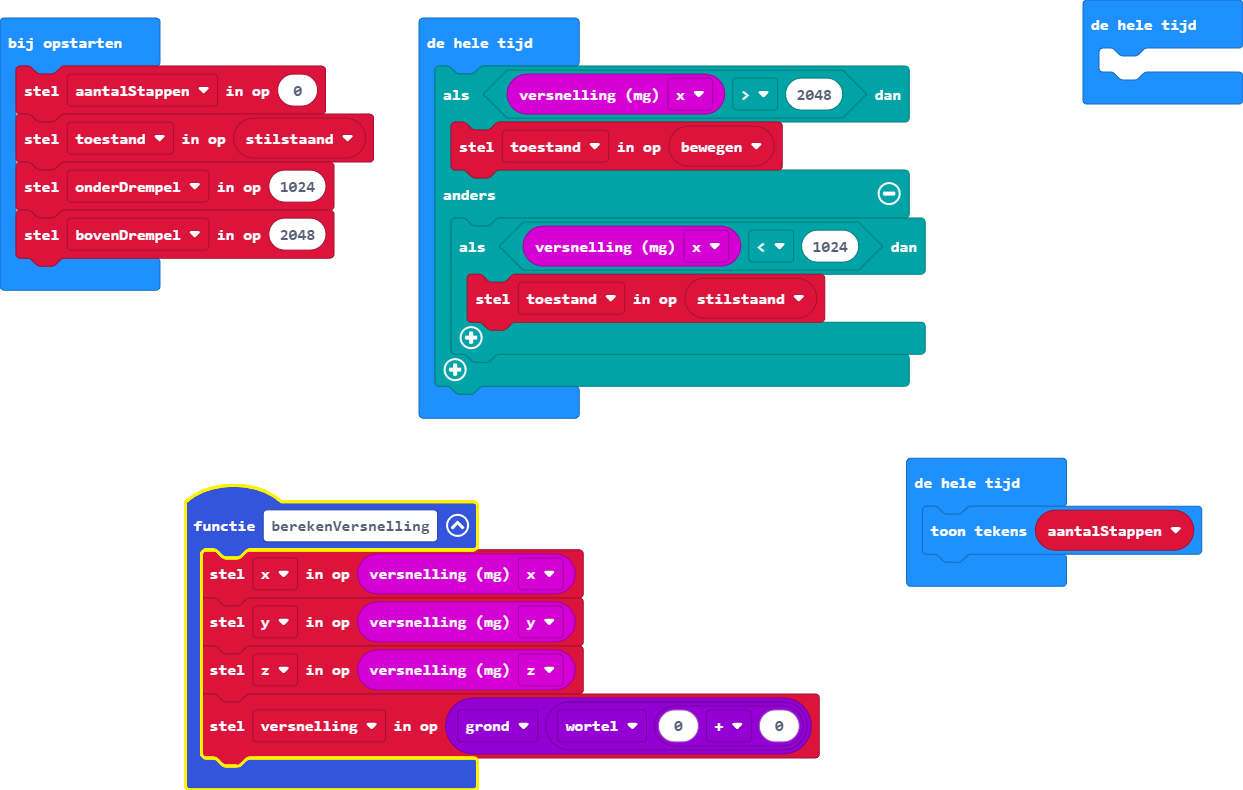
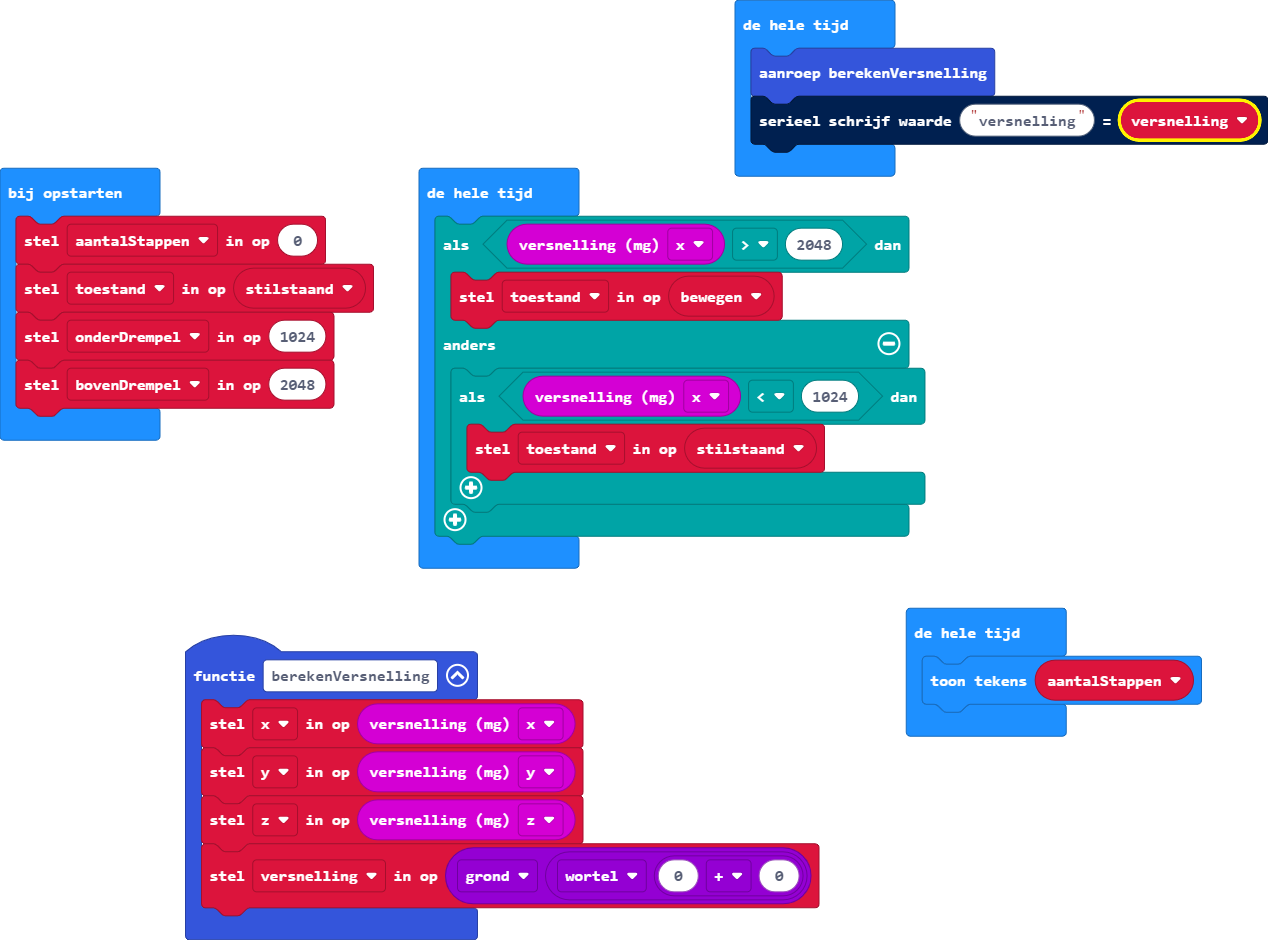
main.blocks, main.ts bijwerken

diff --git a/main.ts b/main.ts
@@ -14,6 +14,10 @@ let toestand = stilstaand
 let onderDrempel = 1024
 let bovenDrempel = 2048
 basic.forever(function () {
+    berekenVersnelling()
+    serial.writeValue("versnelling", versnelling)
+})
+basic.forever(function () {
     if (input.acceleration(Dimension.X) > 2048) {
         let bewegen = 0
         toestand = bewegen
@@ -22,9 +26,6 @@ basic.forever(function () {
             toestand = stilstaand
         }
     }
-})
-basic.forever(function () {
-	
 })
 basic.forever(function () {
     basic.showString("" + (aantalStappen))
